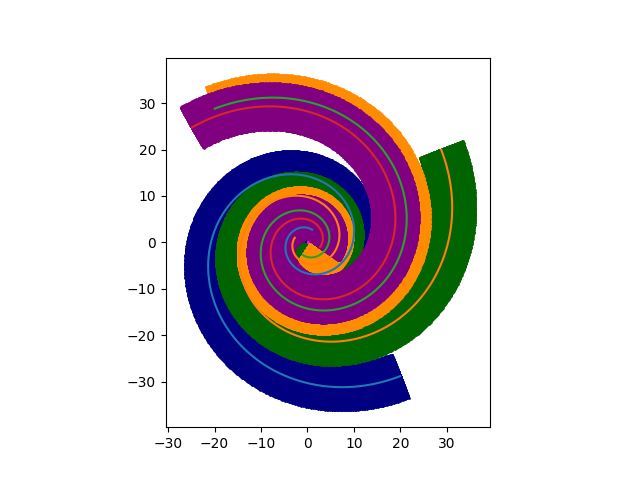
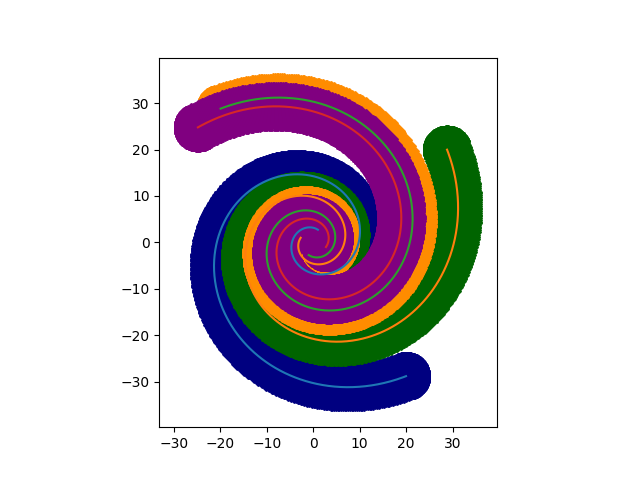
Fixed the generation of endpoints

diff --git a/src/spiral_arm_model.py b/src/spiral_arm_model.py
@@ -125,19 +125,22 @@ def generate_transverse_points(arm_medians, transverse_distances, thetas, pitch_
     return final_transverse_points
 
 
-def generate_end_points(rho, theta, d_rho, d_theta = 1):
+def generate_end_points(rho, theta, pitch_angle, transverse_distances, point='start'):
     """
     Args:
-        rho: 2d array with rhos for start and end of spiral arm
-        theta: 2d array with thetas for start and end of spiral arm
-        d_rho: array with increments for rho
-        d_theta: how many degrees to increment theta by
+        rho: radial distance to one of the end points of the spiral arm
+        theta: angular distance to one of the end points of the spiral arm
     Returns:
         a 
     """
-    cumsum = np.cumsum(d_rho)
-    #for i in range(np.radians(180)):
-
+    angles_arc = np.linspace(0, np.pi, num=180) + theta - pitch_angle 
+    if point == 'start':
+        angles_arc += np.pi
+    x_arc = rho * np.cos(theta) + transverse_distances * np.cos(angles_arc)[:, np.newaxis]
+    y_arc = rho * np.sin(theta) + transverse_distances * np.sin(angles_arc)[:, np.newaxis]
+    #x = np.cos(thetas)[:, np.newaxis] * rhos
+    #y = np.sin(thetas)[:, np.newaxis] * rhos
+    return np.array([x_arc, y_arc]).T
 
 
 
@@ -158,8 +161,13 @@ def plot_spiral_arms():
         # Flatten the 3D array into 2D arrays
         x_coords = transverse_points[:, :, 0].flatten()
         y_coords = transverse_points[:, :, 1].flatten()
+        # generate the end points
+        start_arm = generate_end_points(rho[0], theta[0], pitch_angles[i], transverse_distances, 'start')
+        end_arm = generate_end_points(rho[-1], theta[-1], pitch_angles[i], transverse_distances, 'end')
         colour = np.linspace(0, 1, len(x_coords)) # this generates a colour gradient along the spiral arm
         plt.scatter(x_coords, y_coords, s=1, c=colours[i])  # You can adjust the marker size (s) as needed
+        plt.scatter(start_arm[:, :, 0].flatten(), start_arm[:, :, 1].flatten(), s=1, c=colours[i])
+        plt.scatter(end_arm[:, :, 0].flatten(), end_arm[:, :, 1].flatten(), s=1, c=colours[i])
         plt.plot(x, y)
     plt.gca().set_aspect('equal')
     plt.savefig("output/spiral_arms_2_w_transverse_contribution.png")  # save plot in the output folder
